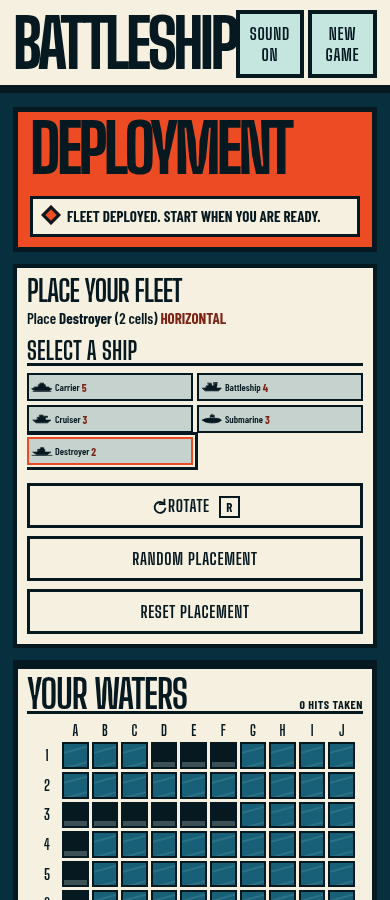
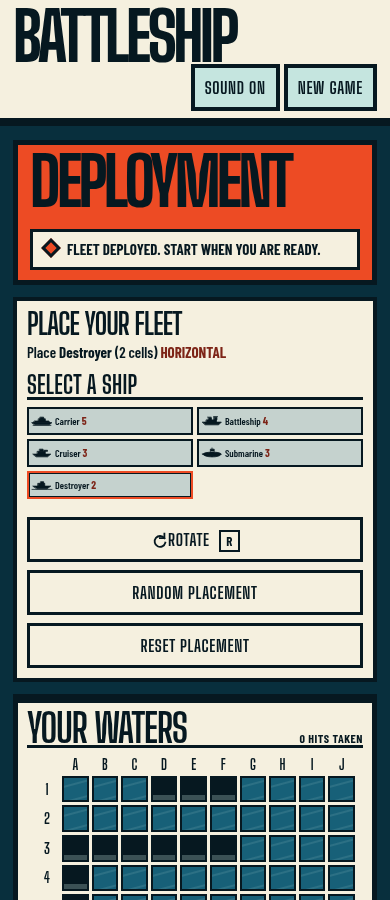
Clear mobile poster masthead collision

diff --git a/src/styles.css b/src/styles.css
@@ -347,8 +347,7 @@ kbd {
 
 .fleet-list .fleet-selected {
   border-color: var(--orange);
-  outline: 3px solid var(--black);
-  outline-offset: 2px;
+  box-shadow: inset 0 0 0 1px var(--black);
 }
 
 .fleet-list b {
@@ -775,13 +774,22 @@ kbd {
   }
 
   .topbar {
+    display: grid;
+    grid-template-columns: 1fr auto;
+    align-items: end;
     min-height: 72px;
     margin: 0 -13px;
     padding: 10px 13px 7px;
   }
 
   .topbar h1 {
+    grid-column: 1 / -1;
+    width: 100%;
     font-size: clamp(58px, 17vw, 88px);
+  }
+
+  .topbar-actions {
+    grid-column: 2;
   }
 
   .topbar .button {
